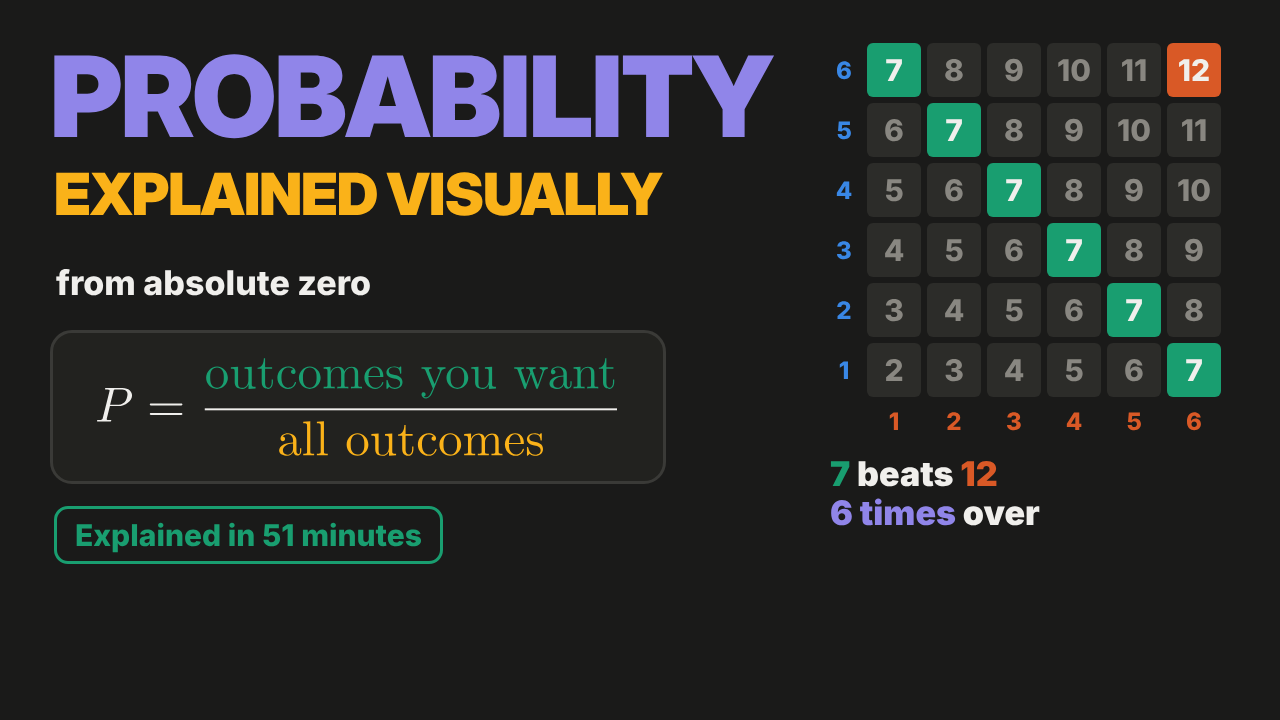
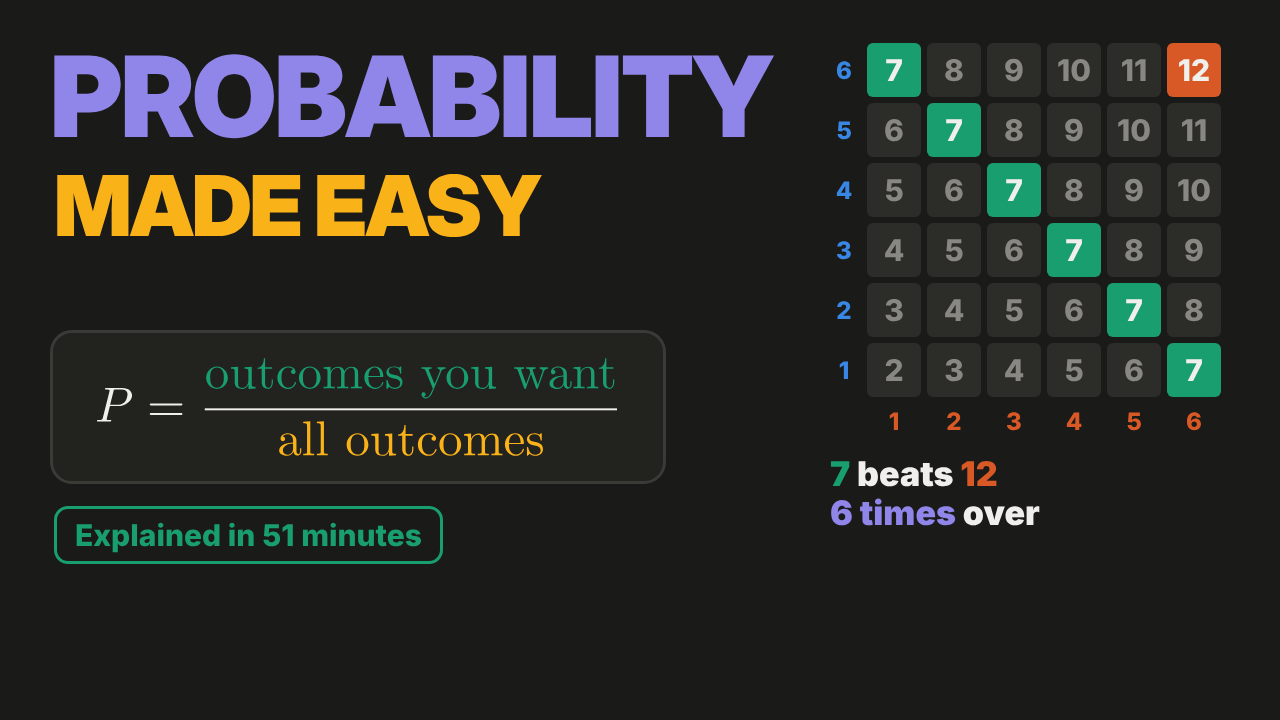
Probability one-hour: new thumbnails (MADE EASY / FROM ZERO) and uploaded title
Claude-Session: https://claude.ai/code/session_012YaKzWLfxD8R3siRSKAMBC

Changed region(s): [[0.0312, 0.2139, 0.5312, 0.3361], [0.0312, 0.3667, 0.2812, 0.4278]]

diff --git a/probability-one-hour/thumbs.py b/probability-one-hour/thumbs.py
@@ -1,7 +1,7 @@
 #!/usr/bin/env python3
 """Two 1280x720 thumbnails (A/B) for YouTube Test & compare, rendered from HTML with Playwright.
 Owner override for this video: no ML / DS / Finance / CS tiles (everyday examples only).
-Both lead with the keyword headline "PROBABILITY / EXPLAINED VISUALLY" and the colour-coded counting rule
+A: "PROBABILITY / MADE EASY", B: "PROBABILITY / FROM ZERO" (owner's picks); both carry and the colour-coded counting rule
 (typeset with LaTeX -> SVG), plus a real diagram from the running example (two dice):
   A: the 6x6 dice grid with the seven-diagonal lit, "7 beats 12 six times over".
   B: the three magic words NOT / OR / AND and the two-dice "mountain" of totals.
@@ -83,8 +83,7 @@ def thumb_a():
     grid, gw, gh = dice_grid_svg(60)
     body = f"""
 <div class="h" style="position:absolute;left:50px;top:46px;font-size:112px;color:{C['violet']}">PROBABILITY</div>
-<div class="h" style="position:absolute;left:54px;top:168px;font-size:58px;letter-spacing:-1px;color:{C['warn']}">EXPLAINED VISUALLY</div>
-<div style="position:absolute;left:56px;top:262px;font-size:34px;font-weight:800;color:{C['ink']}">from absolute zero</div>
+<div class="h" style="position:absolute;left:54px;top:168px;font-size:84px;letter-spacing:-2px;color:{C['warn']}">MADE EASY</div>
 <div class="card" style="position:absolute;left:50px;top:330px;width:610px;height:{fh + 50:.0f}px">
   <div style="position:absolute;left:44px;top:25px">{f}</div></div>
 <div style="position:absolute;left:54px;top:{330 + fh + 50 + 28:.0f}px" class="badge">Explained in {MINS} minutes</div>
@@ -99,7 +98,7 @@ def thumb_b():
     f, fh = formula_svg(440)
     body = f"""
 <div class="h" style="position:absolute;left:50px;top:40px;font-size:132px;color:{C['violet']}">PROBABILITY</div>
-<div class="h" style="position:absolute;left:54px;top:178px;font-size:60px;letter-spacing:-1px;color:{C['warn']}">EXPLAINED VISUALLY</div>
+<div class="h" style="position:absolute;left:54px;top:170px;font-size:84px;letter-spacing:-2px;color:{C['warn']}">FROM ZERO</div>
 <div style="position:absolute;left:54px;top:282px;display:flex;gap:18px">
   {"".join(f'<div style="border:4px solid {c};color:{c};border-radius:16px;padding:6px 22px;font-size:46px;font-weight:900">{w}</div>' for w, c in (("NOT", C["blue"]), ("OR", C["aqua"]), ("AND", C["orange"])))}
 </div>

diff --git a/probability-one-hour/package.py b/probability-one-hour/package.py
@@ -12,11 +12,12 @@ sys.path.insert(0, str(HERE.parent / "channel"))
 import channel as ch  # noqa: E402
 
 TITLES = [
+    "Learn PROBABILITY in One Hour (Even If You're Bad at Math)",
     "Give Me One Hour and You'll FINALLY Understand PROBABILITY",
     "Give Me One Hour and You'll FINALLY Understand PROBABILITY (From Absolute Zero)",
     "Probability From Absolute Zero: Give Me One Hour and You'll FINALLY Get It",
 ]
-TITLE = TITLES[0]   # recommended: the owner's title, keyword in caps
+TITLE = TITLES[0]   # the title the owner uploaded with
 
 CH_TITLES = {
     "Game Night": "Game night: why 7 beats 12 six times over",
